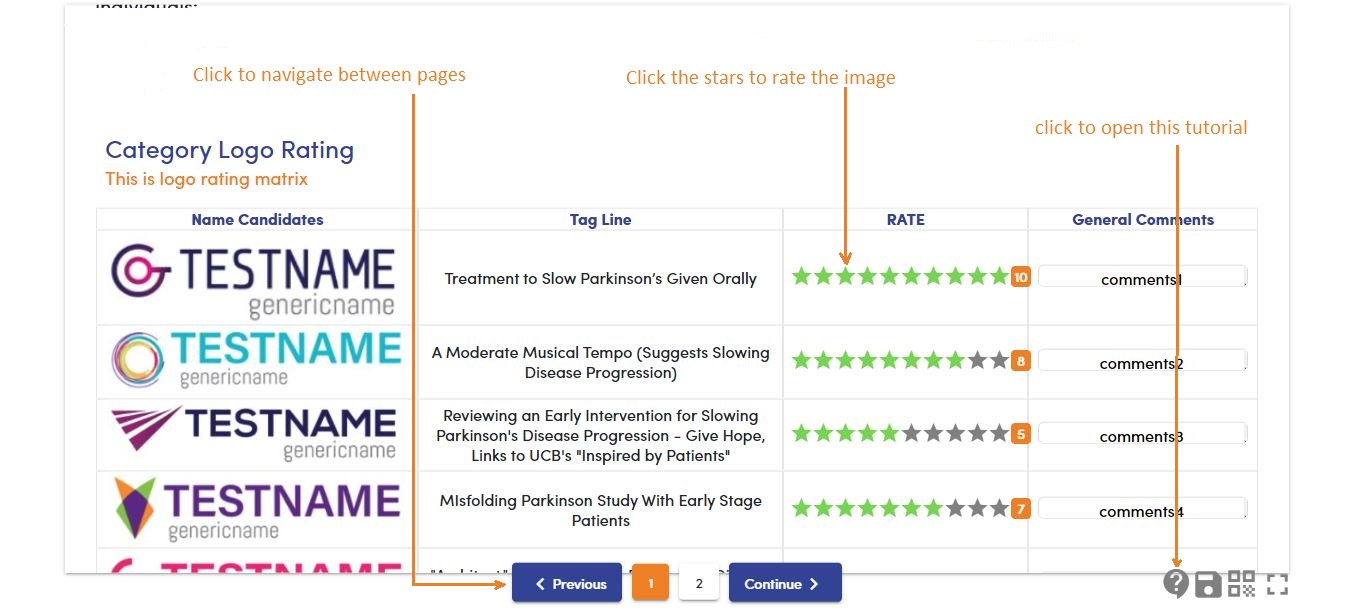
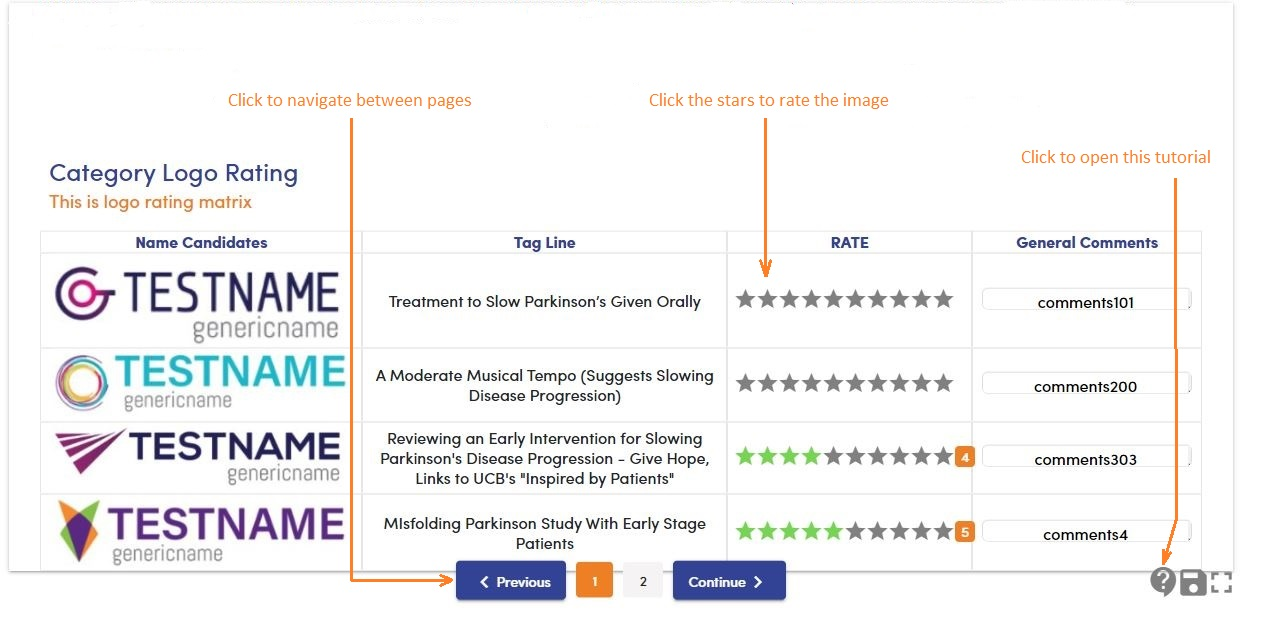
add modal tutorial tinder

Changed region(s): [[0.0, 0.0927, 0.9788, 0.9886], [0.3976, 0.3398, 0.4588, 0.4016], [0.0612, 0.0, 0.1529, 0.0309]]

diff --git a/src/app/bmx/bmx-creator/survey-matrix/survey-matrix.component.html b/src/app/bmx/bmx-creator/survey-matrix/survey-matrix.component.html
@@ -59,7 +59,7 @@
                 <!-- BMX PARAGRAPH EDITOR 📑📑📑📑📑📑📑📑📑📑📑📑📑📑📑📑📑📑📑📑📑📑📑📑📑📑📑📑📑📑 -->
                 <div *ngIf="bmxItem.componentType === 'text-editor'" class="paragraph">
                     
-                    <app-text-paragraph [bmxItem]="bmxItem" [i]="i" [bmxClientPageDesignMode]="bmxClientPageDesignMode"
+                    <app-text-paragraph [bmxItem]="bmxItem" [i]="i" [bmxClientPageDesignMode]="bmxClientPageDesignMode" [currentPage]="currentPage"
                         [bmxClientPageOverview]="bmxClientPageOverview" style="margin-top: 25px"></app-text-paragraph>
                 </div>
                 <!-- 📑📑📑📑📑📑📑📑📑📑📑📑📑📑📑📑📑📑📑📑📑📑📑📑📑📑📑📑📑📑 END BMX PARAGRAPH EDITOR -->
@@ -183,6 +183,26 @@
 
                 <!-- TINDER  🔥🔥🔥🔥🔥🔥🔥🔥🔥🔥🔥🔥🔥🔥🔥🔥🔥🔥🔥🔥🔥🔥🔥🔥🔥🔥🔥🔥🔥🔥🔥🔥🔥🔥🔥🔥🔥🔥🔥🔥🔥🔥🔥🔥🔥🔥🔥🔥🔥-->
                 <div *ngIf="bmxItem.componentType === 'tinder'" class="paragraph">
+                    <button *ngIf="!showModalVideo" (click)="seeTutorial()" class="see-tutorial-mobil" mat-icon-button matTooltip="See tutorial" matTooltipPosition="above"
+                 
+                        style="position: fixed;color: grey;z-index: 9999999999;outline: none;">
+                        <mat-icon class="full-icon" style="font-size: 36px;">contact_support
+                        </mat-icon>
+                    </button>
+                    <!-- modal -->
+                    <div *ngIf="showModalVideo" id="myModal" class="modal-video" style="display: flex;flex-direction: column;gap: 2px;">
+                        <!-- <label class="container-checkbox">Don't show again
+                            <input (click)="saveSelection()" type="checkbox" value="Bike" #modalChecked> 
+                            <span class="checkmark">&#x2714;</span>        
+                        </label> -->
+                        <mat-checkbox (click)="saveSelection()" class="example-margin container-checkbox" >Don't show again</mat-checkbox>
+                    
+                        <div class="modal-content">
+                            <img *ngFor="let path of VIDEO_PATH" [src]="path" alt="tutorial">
+                        </div>
+                        <button class="btn btn-raised close-modal" (click)="showModalVideo=false">close</button>
+                    </div>
+                    <!-- modal end -->
                     <div class="emoji-handle">.</div>
                     <div style="position: absolute;right: 0px;">
                         <button *ngIf="bmxClientPageOverview" matTooltip="double click to delete"
@@ -191,7 +211,7 @@
                             <mat-icon style="font-size: 17px;">cancel</mat-icon>
                         </button>
                     </div>
-                    <app-tinder [bmxItem]="bmxItem" [i]="i" [bmxClientPageDesignMode]="bmxClientPageDesignMode"
+                    <app-tinder [bmxItem]="bmxItem" [i]="i" [bmxClientPageDesignMode]="bmxClientPageDesignMode" (launchPathModal)="setPath($event)"
                         [bmxClientPageOverview]="bmxClientPageOverview"></app-tinder>
                 </div>
                 <!-- END TINDER  🔥🔥🔥🔥🔥🔥🔥🔥🔥🔥🔥🔥🔥🔥🔥🔥🔥🔥🔥🔥🔥🔥🔥🔥🔥🔥🔥🔥🔥🔥🔥🔥🔥🔥🔥🔥🔥🔥🔥🔥🔥🔥🔥🔥🔥🔥 -->

diff --git a/src/app/bmx/bmx-creator/survey-creation-design/templates/text-paragraph/text-paragraph.component.html b/src/app/bmx/bmx-creator/survey-creation-design/templates/text-paragraph/text-paragraph.component.html
@@ -1,16 +1,4 @@
-<!-- modal -->
- <!-- <div *ngIf="showModalVideo" id="myModal" class="modal-video">
-    <label class="container-checkbox">Don't show again
-        <input (click)="saveSelection()" type="checkbox" value="Bike" #modalChecked> 
-        <span class="checkmark">&#x2714;</span>        
-    </label>
 
-    <div class="modal-content">
-        <img *ngFor="let path of VIDEO_PATH" [src]="path" alt="Girl in a jacket">
-    </div>
-    <span class="close-modal" (click)="showModalVideo=false">Close</span>
-</div> -->
-<!-- end modal -->
 <button *ngIf="openSettings && bmxClientPageOverview" class="cancel" (click)=" replaceBiI_Markers(); openSettings = !openSettings"
     mat-icon-button>
     <mat-icon class="full-icon" style="font-size: 25px;">check_circle</mat-icon>
@@ -19,7 +7,7 @@
     (click)="editTextWithEditor();openSettings = !openSettings;">
     <mat-icon class="full-icon" style="font-size: 25px;">edit</mat-icon>
 </button>
-<div class="paragram-mobile" style="margin: 30px;font-size: 20px;" [innerHTML]="bmxItem.componentText | safe: 'html'"></div>
+<div class="paragram-mobile" *ngIf="currentPage != 2" style="margin: 30px;font-size: 20px;" [innerHTML]="bmxItem.componentText | safe: 'html'"></div>
 <div cdkDrag>
     <ckeditor *ngIf="openSettings && bmxClientPageOverview" id="txtTexto" class="ckeditorcev"
         style="animation: fadeIn 0.5s ease forwards;" [ngModelOptions]="{standalone: true}"

diff --git a/src/app/bmx/bmx-creator/survey-creation-design/templates/tinder/tinder.component.ts b/src/app/bmx/bmx-creator/survey-creation-design/templates/tinder/tinder.component.ts
@@ -34,6 +34,13 @@ export class TinderComponent extends RatingScaleComponent implements OnInit {
   @Input() bmxClientPageDesignMode;
   @Input() bmxClientPageOverview;
 
+  @Output() launchPathModal = new EventEmitter();
+
+  PATH1: any[] = [
+    'assets/img/bmx/tutorial/tutorial-tinder1.JPG',
+    'assets/img/bmx/tutorial/tutorial-tinder2.JPG',    
+  ]
+
   rankingType = 'dropDown'
   rankingTypeOptions = ['dropDown', 'dragAndDrop', 'radio']
 
@@ -52,7 +59,6 @@ export class TinderComponent extends RatingScaleComponent implements OnInit {
 
   }
   ngOnInit(): void {
-    console.log(this.bmxItem.componentText)
     this.getDataSource()    
     this.xpercent = 100 / (this.bmxItem.componentText.length - 1);
     this.value = this.xpercent;
@@ -88,6 +94,8 @@ export class TinderComponent extends RatingScaleComponent implements OnInit {
     if (this.bmxItem.componentSettings[0]['displaySound'] == true) {
       this.displaySound = true;
     }
+    this.VIDEO_PATH = this.PATH1;
+    this.launchPathModal.emit(this.VIDEO_PATH)
   }
 
   createRatingStars(ratingScale, ratingScaleIcon?) {

diff --git a/src/app/bmx/bmx-creator/survey-creation-design/templates/image-rank-drag/image-rank-drag.component.html b/src/app/bmx/bmx-creator/survey-creation-design/templates/image-rank-drag/image-rank-drag.component.html
@@ -1,14 +1,4 @@
-<!-- <div *ngIf="showModalVideo" id="myModal" class="modal-video">
-    <label class="container-checkbox">Don't show again
-        <input (click)="saveSelection()" type="checkbox" value="Bike" #modalChecked> 
-        <span class="checkmark">&#x2714;</span>        
-    </label>
 
-    <div class="modal-content">
-        <img *ngFor="let path of VIDEO_PATH" [src]="path" alt="Girl in a jacket">
-    </div>
-    <span class="close-modal" (click)="showModalVideo=false">Close</span>
-</div> -->
 <!-- ➗➗➗➗➗➗➗➗➗➗➗➗➗➗➗➗➗➗➗  SETTINGS ICONS  ➗➗➗➗➗➗➗➗➗➗➗➗➗➗➗➗➗ -->
 <div *ngIf="bmxClientPageOverview" style="display: flex;
     flex-direction: row-reverse;

diff --git a/src/app/bmx/bmx-creator/survey-matrix/survey-matrix.component.ts b/src/app/bmx/bmx-creator/survey-matrix/survey-matrix.component.ts
@@ -551,7 +551,8 @@ export class SurveyMatrixComponent extends SurveyCreationDesignComponent impleme
   }
 
   setPath(path: any){  
-    this.VIDEO_PATH = path;    
+    this.VIDEO_PATH = path;
+    console.log(path)    
   }
 
   saveSelection(){

diff --git a/src/app/bmx/bmx-creator/survey-creation-design/templates/text-paragraph/text-paragraph.component.ts b/src/app/bmx/bmx-creator/survey-creation-design/templates/text-paragraph/text-paragraph.component.ts
@@ -12,6 +12,7 @@ export class TextParagraphComponent implements OnInit {
   @Input() i;
   @Input() bmxClientPageDesignMode;
   @Input() bmxClientPageOverview;
+  @Input() currentPage;
 
   openSettings = false
   ckconfig;

diff --git a/src/app/bmx/bmx-creator/survey-creation-design/templates/text-paragraph/text-paragraph.component.scss b/src/app/bmx/bmx-creator/survey-creation-design/templates/text-paragraph/text-paragraph.component.scss
@@ -13,7 +13,7 @@
 
 @media (max-width: 912px){
     .paragram-mobile{
-        line-height: 25px;
+        line-height: 25px;        
     }
   
 }
